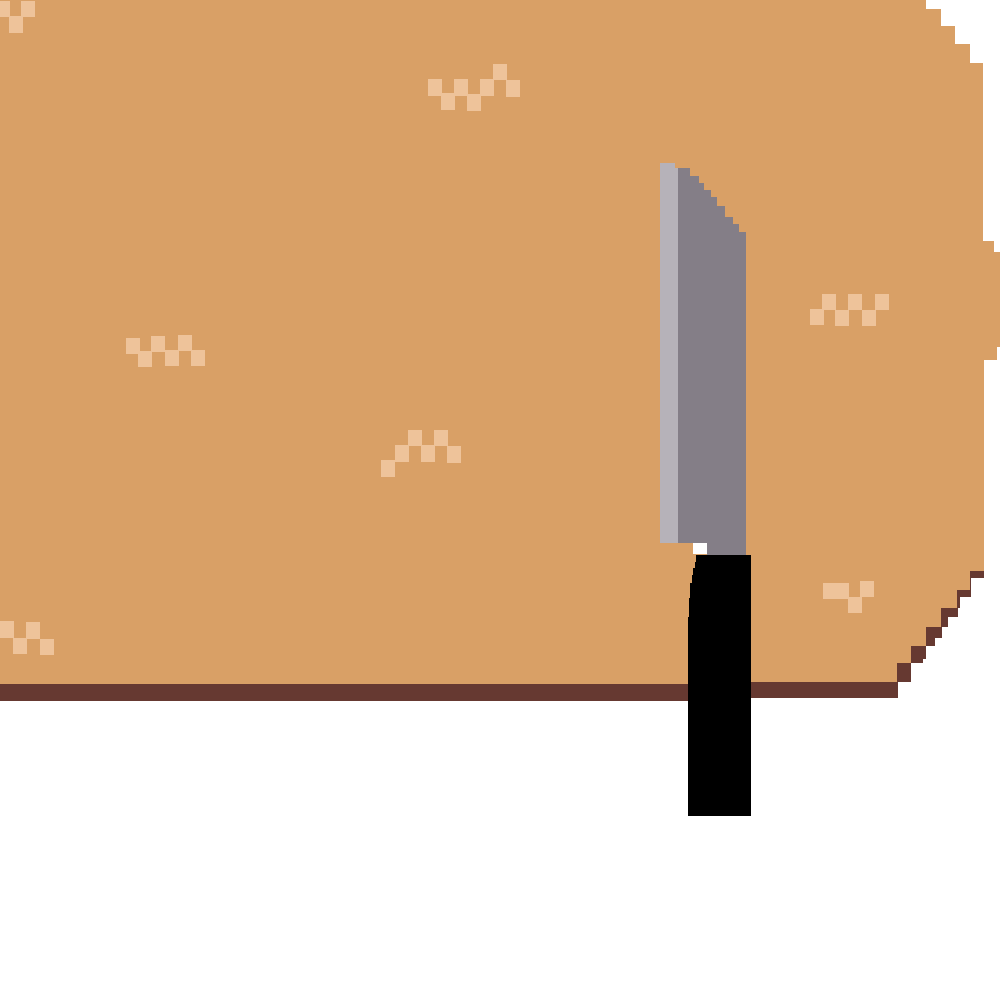
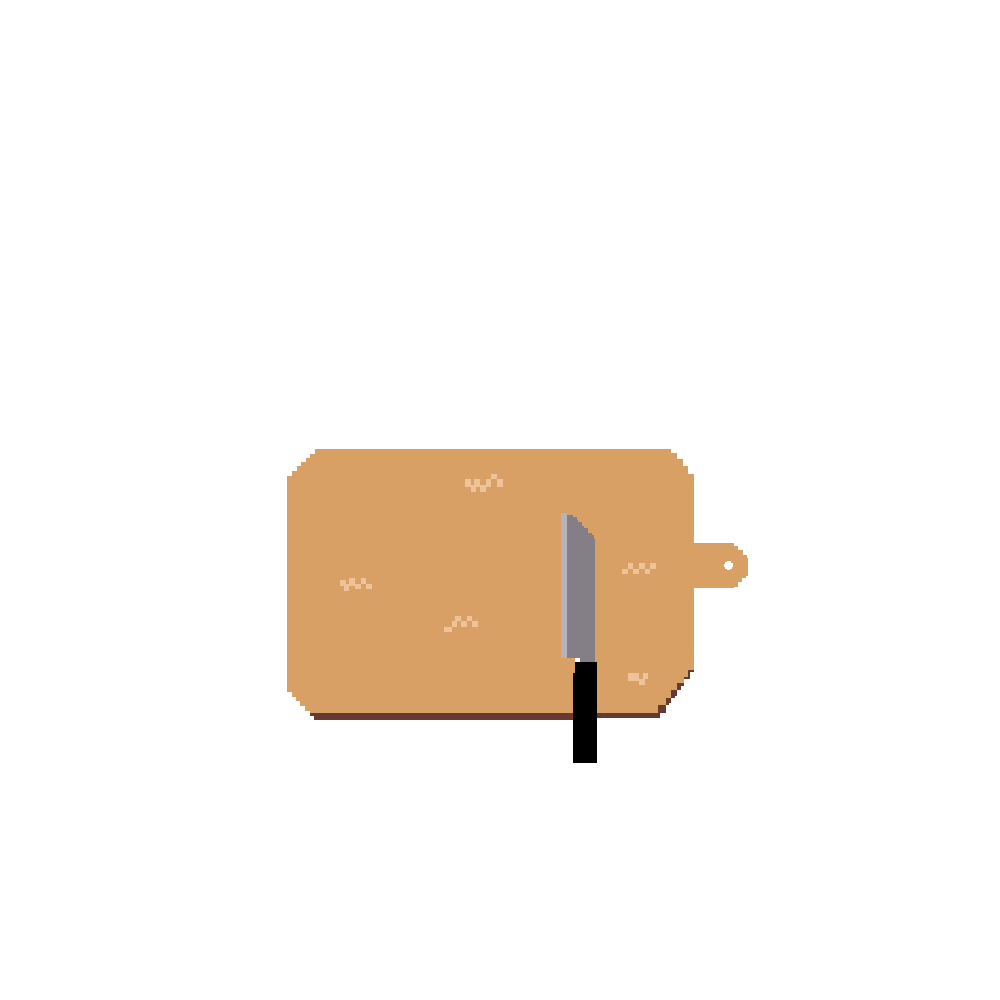
재료 선택 배경 그래픽 수정

diff --git a/fakemain.py b/fakemain.py
@@ -69,7 +69,7 @@ def next_level_pollo():
                 ibtn = Button(window, text="양념을 어떻게 요리하시겠습니까?", command=press2)
                 ibtn.grid(row=1, column=4)
 
-            wall = PhotoImage(file="select-graphic/backgrond.png")
+            wall = PhotoImage(file="select-graphic/doma.png")
             wall_label = Label(image=wall)
             wall_label.place(x=-2, y=-2)
 
@@ -165,6 +165,10 @@ def next_level_pollo():
             def ingredient20():
                 ibtn = Button(window, text="양념를 어떻게 요리하시겠습니까?", command=press2)
                 ibtn.grid(row=1, column=4)
+
+            wall = PhotoImage(file="select-graphic/doma.png")
+            wall_label = Label(image=wall)
+            wall_label.place(x=-2, y=-2)
 
 
 
@@ -292,6 +296,10 @@ def next_level_pesco():
                 ibtn = Button(window, text="양념를 어떻게 요리하시겠습니까?", command=press2)
                 ibtn.grid(row=1, column=4)
 
+            wall = PhotoImage(file="select-graphic/doma.png")
+            wall_label = Label(image=wall)
+            wall_label.place(x=-2, y=-2)
+
             photo1 = PhotoImage(file="mosaic/양파_moza.png")
             btn1 = Button(window, width=200, height=200, image=photo1, command=ingredient1)
             btn1.grid(row=0, column=0)
@@ -384,6 +392,10 @@ def next_level_pesco():
             def ingredient20():
                 ibtn = Button(window, text="양념를 어떻게 요리하시겠습니까?", command=press2)
                 ibtn.grid(row=1, column=4)
+
+            wall = PhotoImage(file="select-graphic/doma.png")
+            wall_label = Label(image=wall)
+            wall_label.place(x=-2, y=-2)
 
             photo11 = PhotoImage(file="mosaic/양파_moza.png")
             btn11 = Button(window, width=200, height=200, image=photo11, command=ingredient11)
@@ -509,6 +521,10 @@ def next_level_lacto_ovo():
                 ibtn = Button(window, text="양념를 어떻게 요리하시겠습니까?", command=press2)
                 ibtn.grid(row=1, column=4)
 
+            wall = PhotoImage(file="select-graphic/doma.png")
+            wall_label = Label(image=wall)
+            wall_label.place(x=-2, y=-2)
+
             photo1 = PhotoImage(file="mosaic/양파_moza.png")
             btn1 = Button(window, width=200, height=200, image=photo1, command=ingredient1)
             btn1.grid(row=0, column=0)
@@ -601,6 +617,10 @@ def next_level_lacto_ovo():
             def ingredient20():
                 ibtn = Button(window, text="양념를 어떻게 요리하시겠습니까?", command=press2)
                 ibtn.grid(row=1, column=4)
+
+            wall = PhotoImage(file="select-graphic/doma.png")
+            wall_label = Label(image=wall)
+            wall_label.place(x=-2, y=-2)
 
             photo11 = PhotoImage(file="mosaic/양파_moza.png")
             btn11 = Button(window, width=200, height=200, image=photo11, command=ingredient11)
@@ -726,6 +746,10 @@ def next_level_ovo():
                 ibtn = Button(window, text="양념를 어떻게 요리하시겠습니까?", command=press2)
                 ibtn.grid(row=1, column=4)
 
+            wall = PhotoImage(file="select-graphic/doma.png")
+            wall_label = Label(image=wall)
+            wall_label.place(x=-2, y=-2)
+
             photo1 = PhotoImage(file="mosaic/양파_moza.png")
             btn1 = Button(window, width=200, height=200, image=photo1, command=ingredient1)
             btn1.grid(row=0, column=0)
@@ -818,6 +842,10 @@ def next_level_ovo():
             def ingredient20():
                 ibtn = Button(window, text="양념를 어떻게 요리하시겠습니까?", command=press2)
                 ibtn.grid(row=1, column=4)
+
+            wall = PhotoImage(file="select-graphic/doma.png")
+            wall_label = Label(image=wall)
+            wall_label.place(x=-2, y=-2)
 
             photo11 = PhotoImage(file="mosaic/양파_moza.png")
             btn11 = Button(window, width=200, height=200, image=photo11, command=ingredient11)
@@ -939,6 +967,10 @@ def next_level_vegan():
                 ibtn = Button(window, text="양념를 어떻게 요리하시겠습니까?", command=press2)
                 ibtn.grid(row=1, column=4)
 
+            wall = PhotoImage(file="select-graphic/doma.png")
+            wall_label = Label(image=wall)
+            wall_label.place(x=-2, y=-2)
+
             photo1 = PhotoImage(file="mosaic/양파_moza.png")
             btn1 = Button(window, width=200, height=200, image=photo1, command=ingredient1)
             btn1.grid(row=0, column=0)
@@ -1031,6 +1063,10 @@ def next_level_vegan():
             def ingredient20():
                 ibtn = Button(window, text="양념를 어떻게 요리하시겠습니까?", command=press2)
                 ibtn.grid(row=1, column=4)
+
+            wall = PhotoImage(file="select-graphic/doma.png")
+            wall_label = Label(image=wall)
+            wall_label.place(x=-2, y=-2)
 
             photo11 = PhotoImage(file="mosaic/양파_moza.png")
             btn11 = Button(window, width=200, height=200, image=photo11, command=ingredient11)
